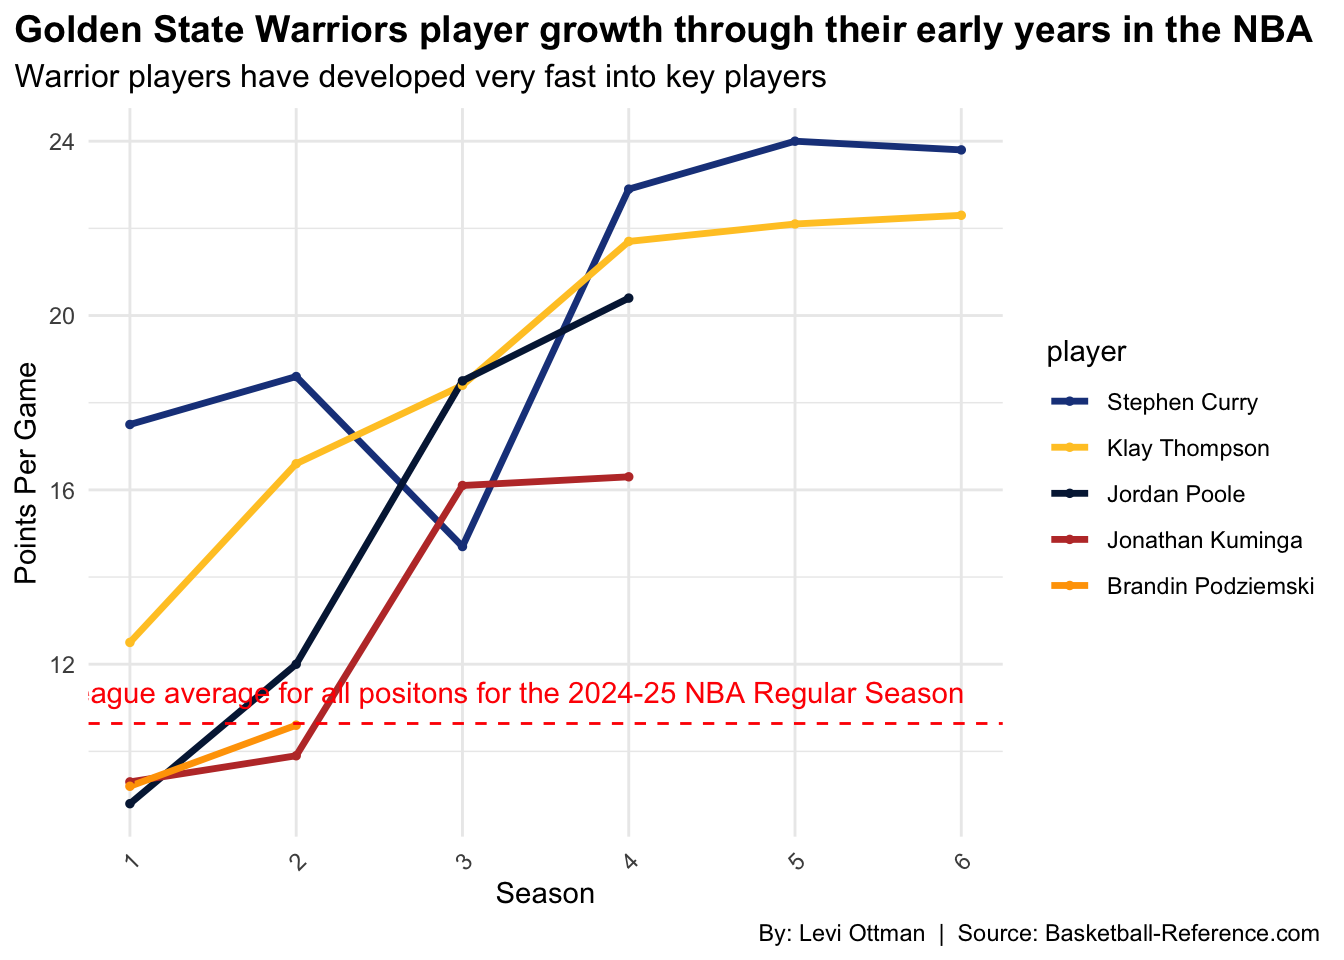
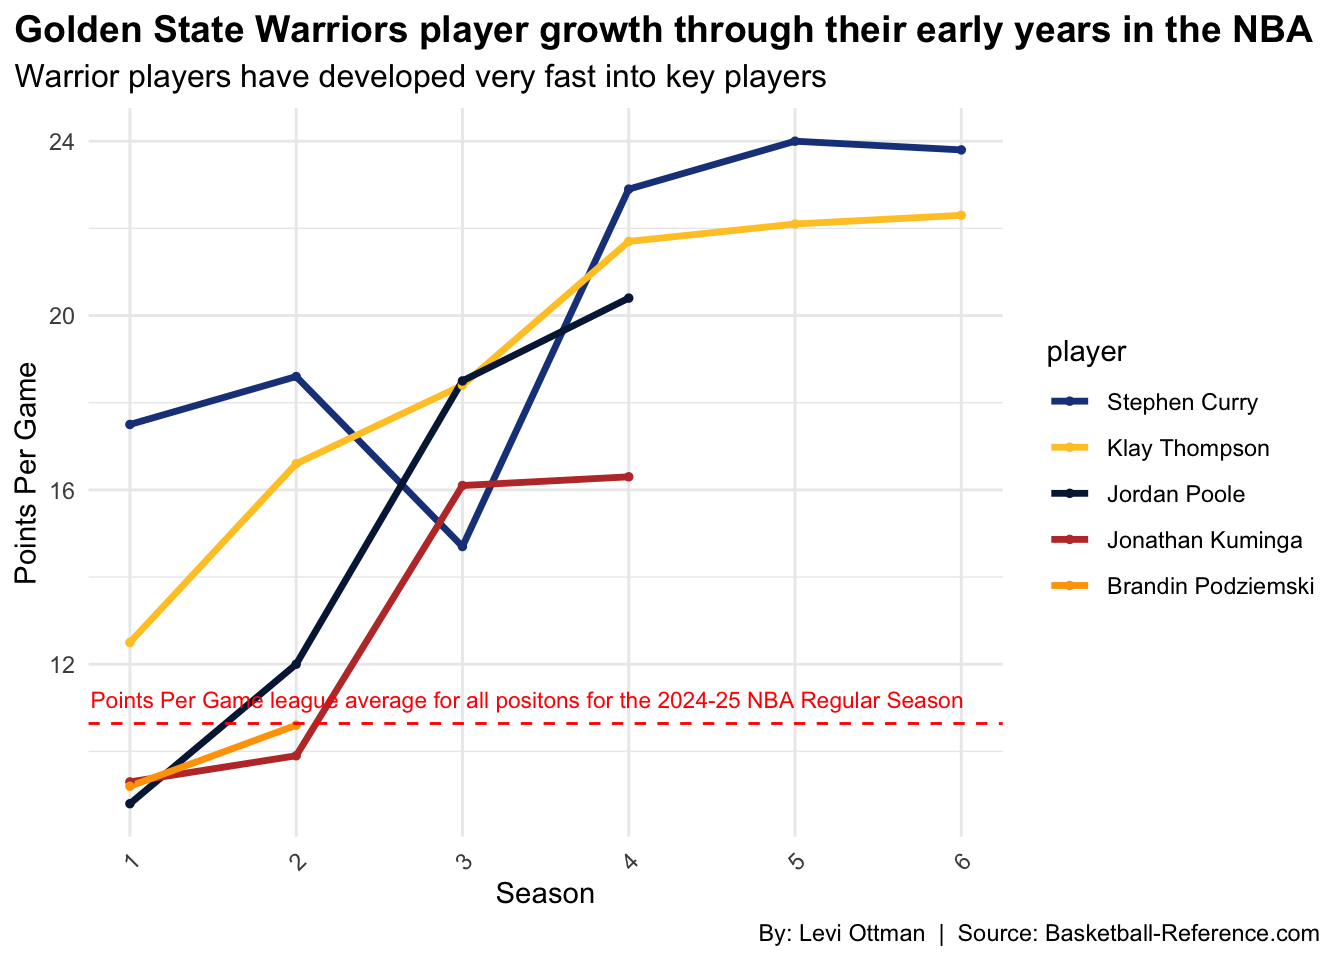
actually done?
...

Changed region(s): [[0.0625, 0.6875, 0.7188, 0.75]]

diff --git a/posts/warriors-nba-draft/index.html b/posts/warriors-nba-draft/index.html
@@ -413,7 +413,7 @@ dbl (16): season, season_type, games_played, minutes_per_game, points_per_ga...
 <span id="cb9-44"><a href="#cb9-44" aria-hidden="true" tabindex="-1"></a>    <span class="at">panel.grid.minor.x =</span> <span class="fu">element_blank</span>(),</span>
 <span id="cb9-45"><a href="#cb9-45" aria-hidden="true" tabindex="-1"></a>    <span class="at">plot.title.position =</span> <span class="st">"plot"</span>,</span>
 <span id="cb9-46"><a href="#cb9-46" aria-hidden="true" tabindex="-1"></a>) <span class="sc">+</span> </span>
-<span id="cb9-47"><a href="#cb9-47" aria-hidden="true" tabindex="-1"></a>  <span class="fu">annotate</span>(<span class="st">"text"</span>, <span class="at">x =</span> <span class="dv">6</span>, <span class="at">y =</span> <span class="fl">10.64</span>, <span class="at">label =</span> <span class="st">"Points Per Game league average for all positons for the 2024-25 NBA Regular Season "</span>, <span class="at">color =</span> <span class="st">"red"</span>, <span class="at">linewidth =</span> <span class="dv">2</span>, <span class="at">hjust =</span> <span class="fl">0.99</span>, <span class="at">vjust =</span> <span class="sc">-</span><span class="dv">1</span>)</span></code><button title="Copy to Clipboard" class="code-copy-button"><i class="bi"></i></button></pre></div>
+<span id="cb9-47"><a href="#cb9-47" aria-hidden="true" tabindex="-1"></a>  <span class="fu">annotate</span>(<span class="st">"text"</span>, <span class="at">x =</span> <span class="dv">6</span>, <span class="at">y =</span> <span class="fl">10.64</span>, <span class="at">label =</span> <span class="st">"Points Per Game league average for all positons for the 2024-25 NBA Regular Season "</span>, <span class="at">color =</span> <span class="st">"red"</span>, <span class="at">linewidth =</span> <span class="dv">1</span>, <span class="at">hjust =</span> <span class="fl">0.99</span>, <span class="at">vjust =</span> <span class="sc">-</span><span class="dv">1</span>, <span class="at">size =</span> <span class="dv">3</span>)</span></code><button title="Copy to Clipboard" class="code-copy-button"><i class="bi"></i></button></pre></div>
 </details>
 <div class="cell-output cell-output-stderr">
 <pre><code>Warning: Using `size` aesthetic for lines was deprecated in ggplot2 3.4.0.

diff --git a/index.html b/index.html
@@ -210,7 +210,7 @@ window.Quarto = {
 
 <div class="quarto-listing quarto-listing-container-default" id="listing-listing">
 <div class="list quarto-listing-default">
-<div class="quarto-post image-right" data-index="0" data-categories="bmJhJTJDd2FycmlvcnMlMkNiYXNrZXRiYWxs" data-listing-date-sort="1743483600000" data-listing-file-modified-sort="1744676928651" data-listing-date-modified-sort="NaN" data-listing-reading-time-sort="8" data-listing-word-count-sort="1478">
+<div class="quarto-post image-right" data-index="0" data-categories="bmJhJTJDd2FycmlvcnMlMkNiYXNrZXRiYWxs" data-listing-date-sort="1743483600000" data-listing-file-modified-sort="1744677213430" data-listing-date-modified-sort="NaN" data-listing-reading-time-sort="8" data-listing-word-count-sort="1481">
 <div class="thumbnail">
 <p><a href="./posts/warriors-nba-draft/index.html" class="no-external"></a></p><a href="./posts/warriors-nba-draft/index.html" class="no-external">
 <p><img loading="lazy" src="./posts/warriors-nba-draft/image.png" class="thumbnail-image"></p>
